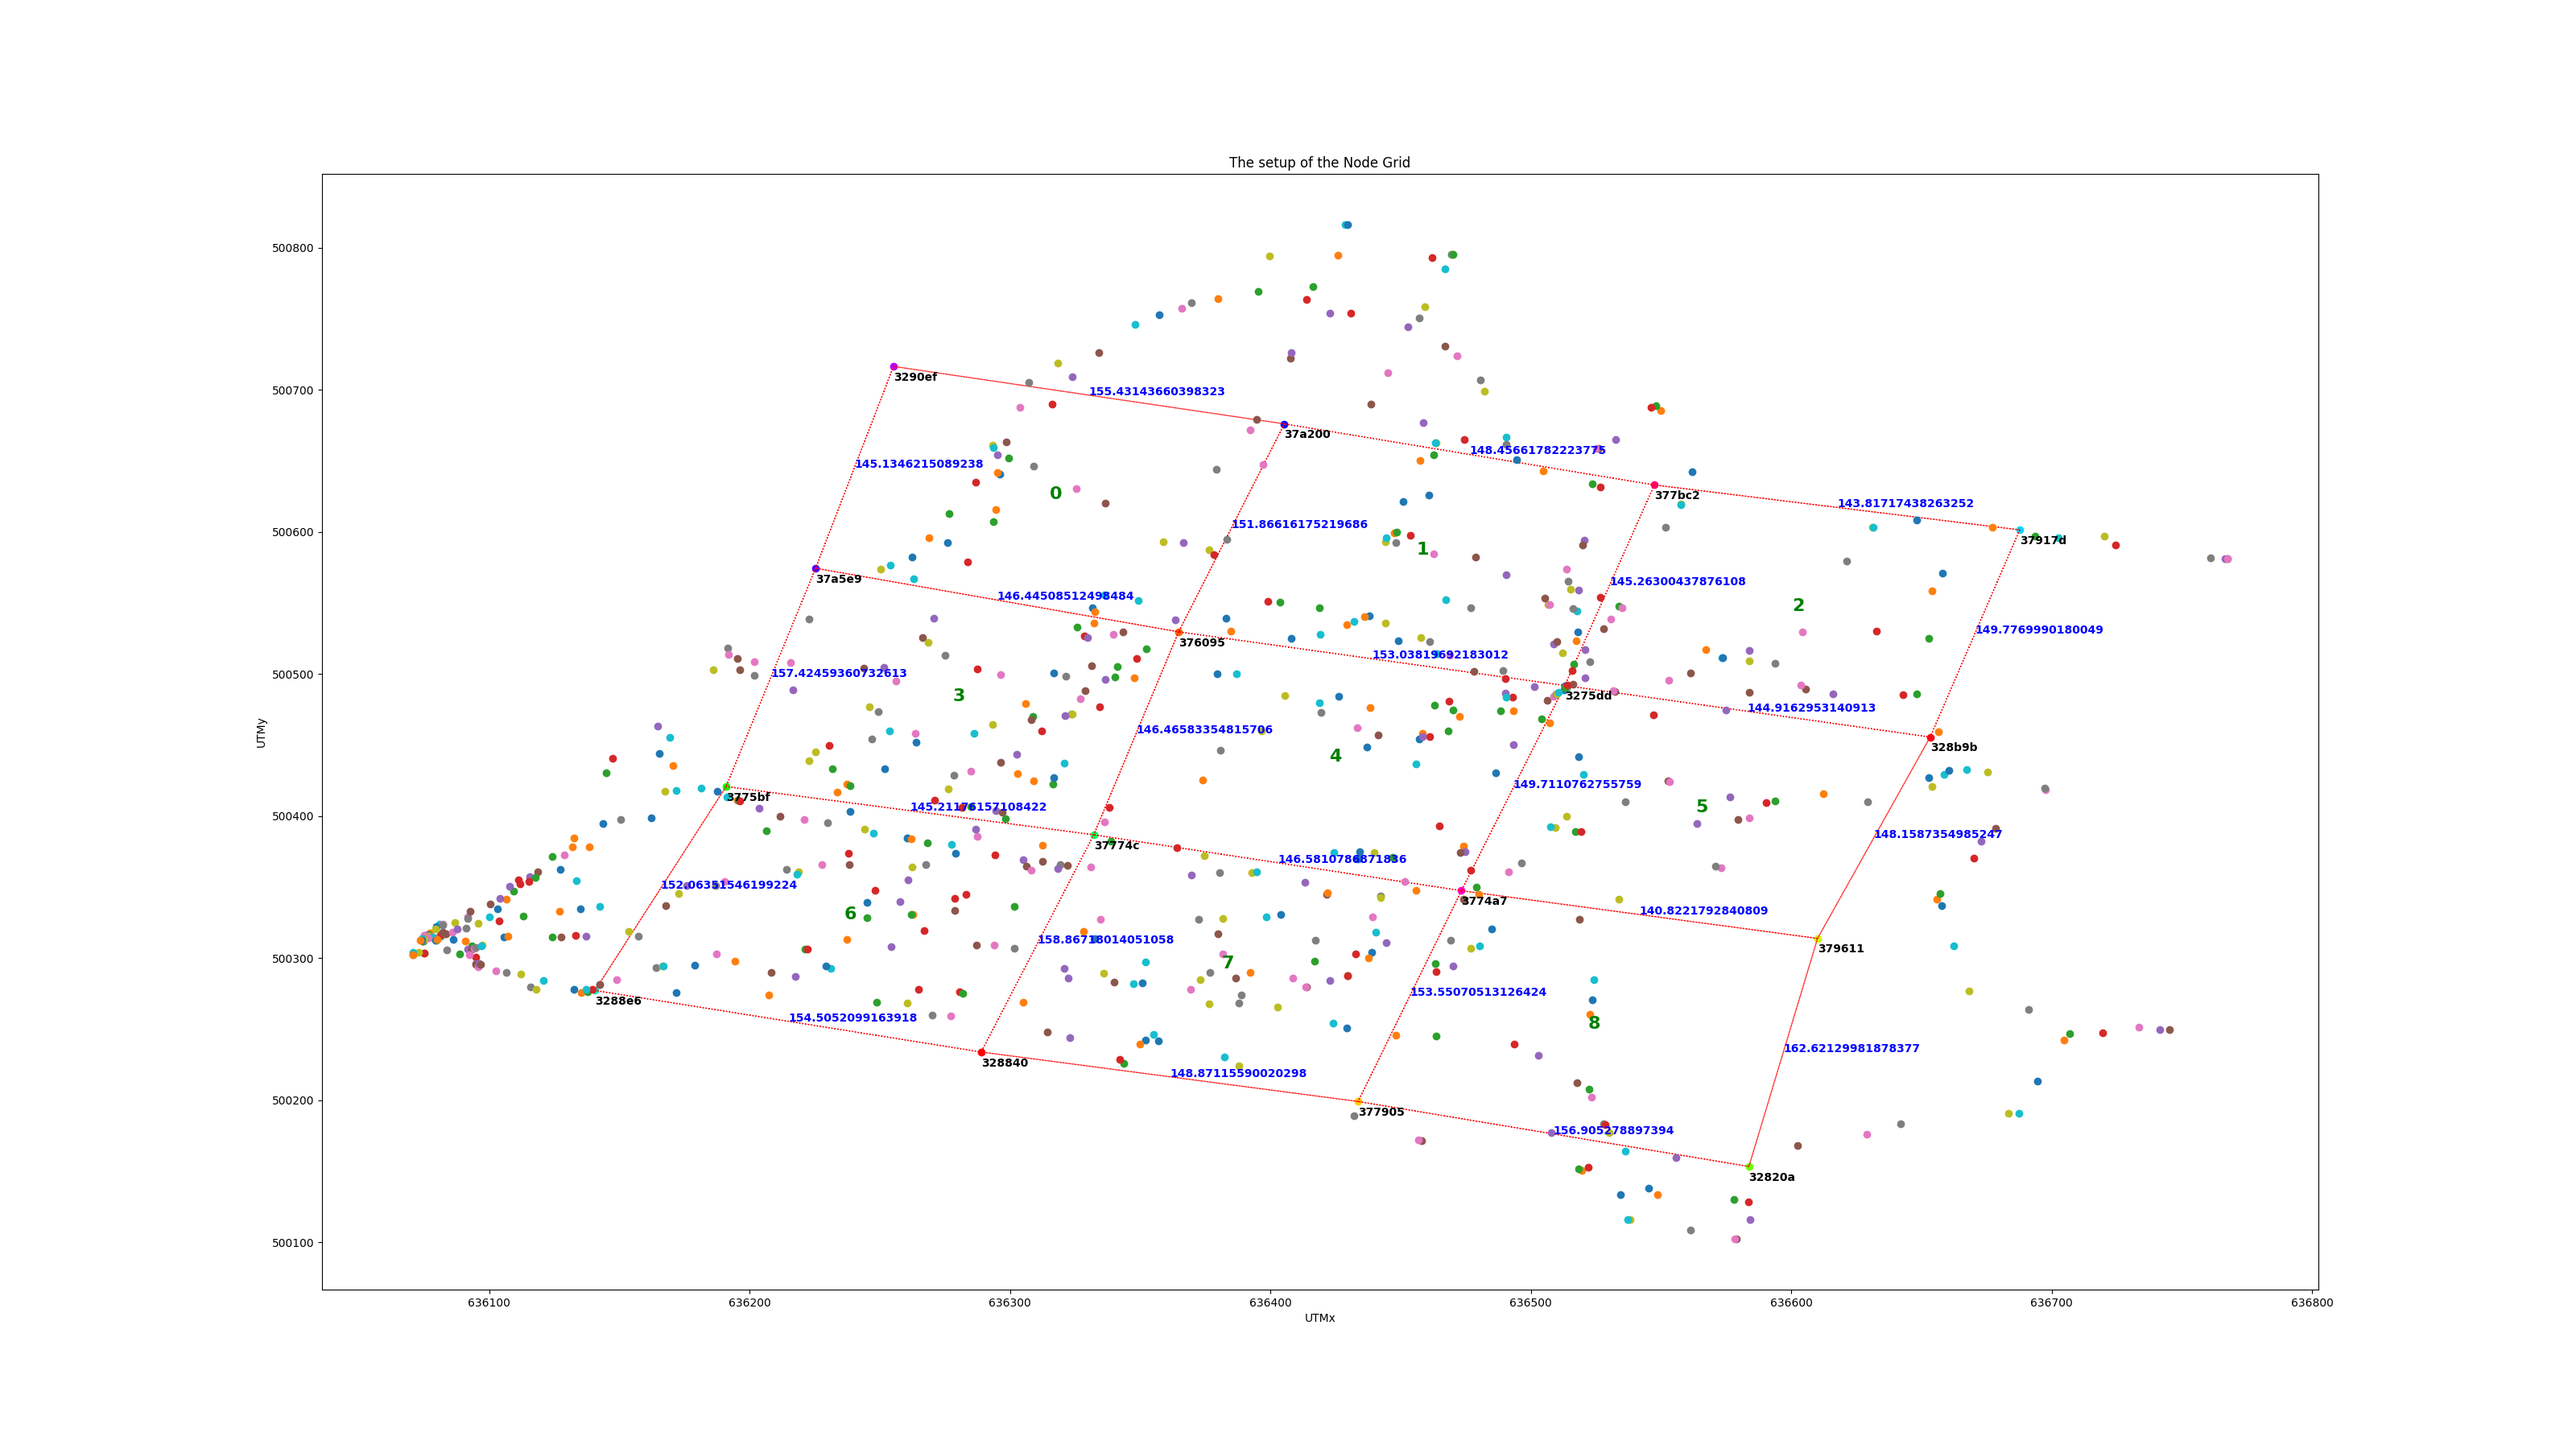
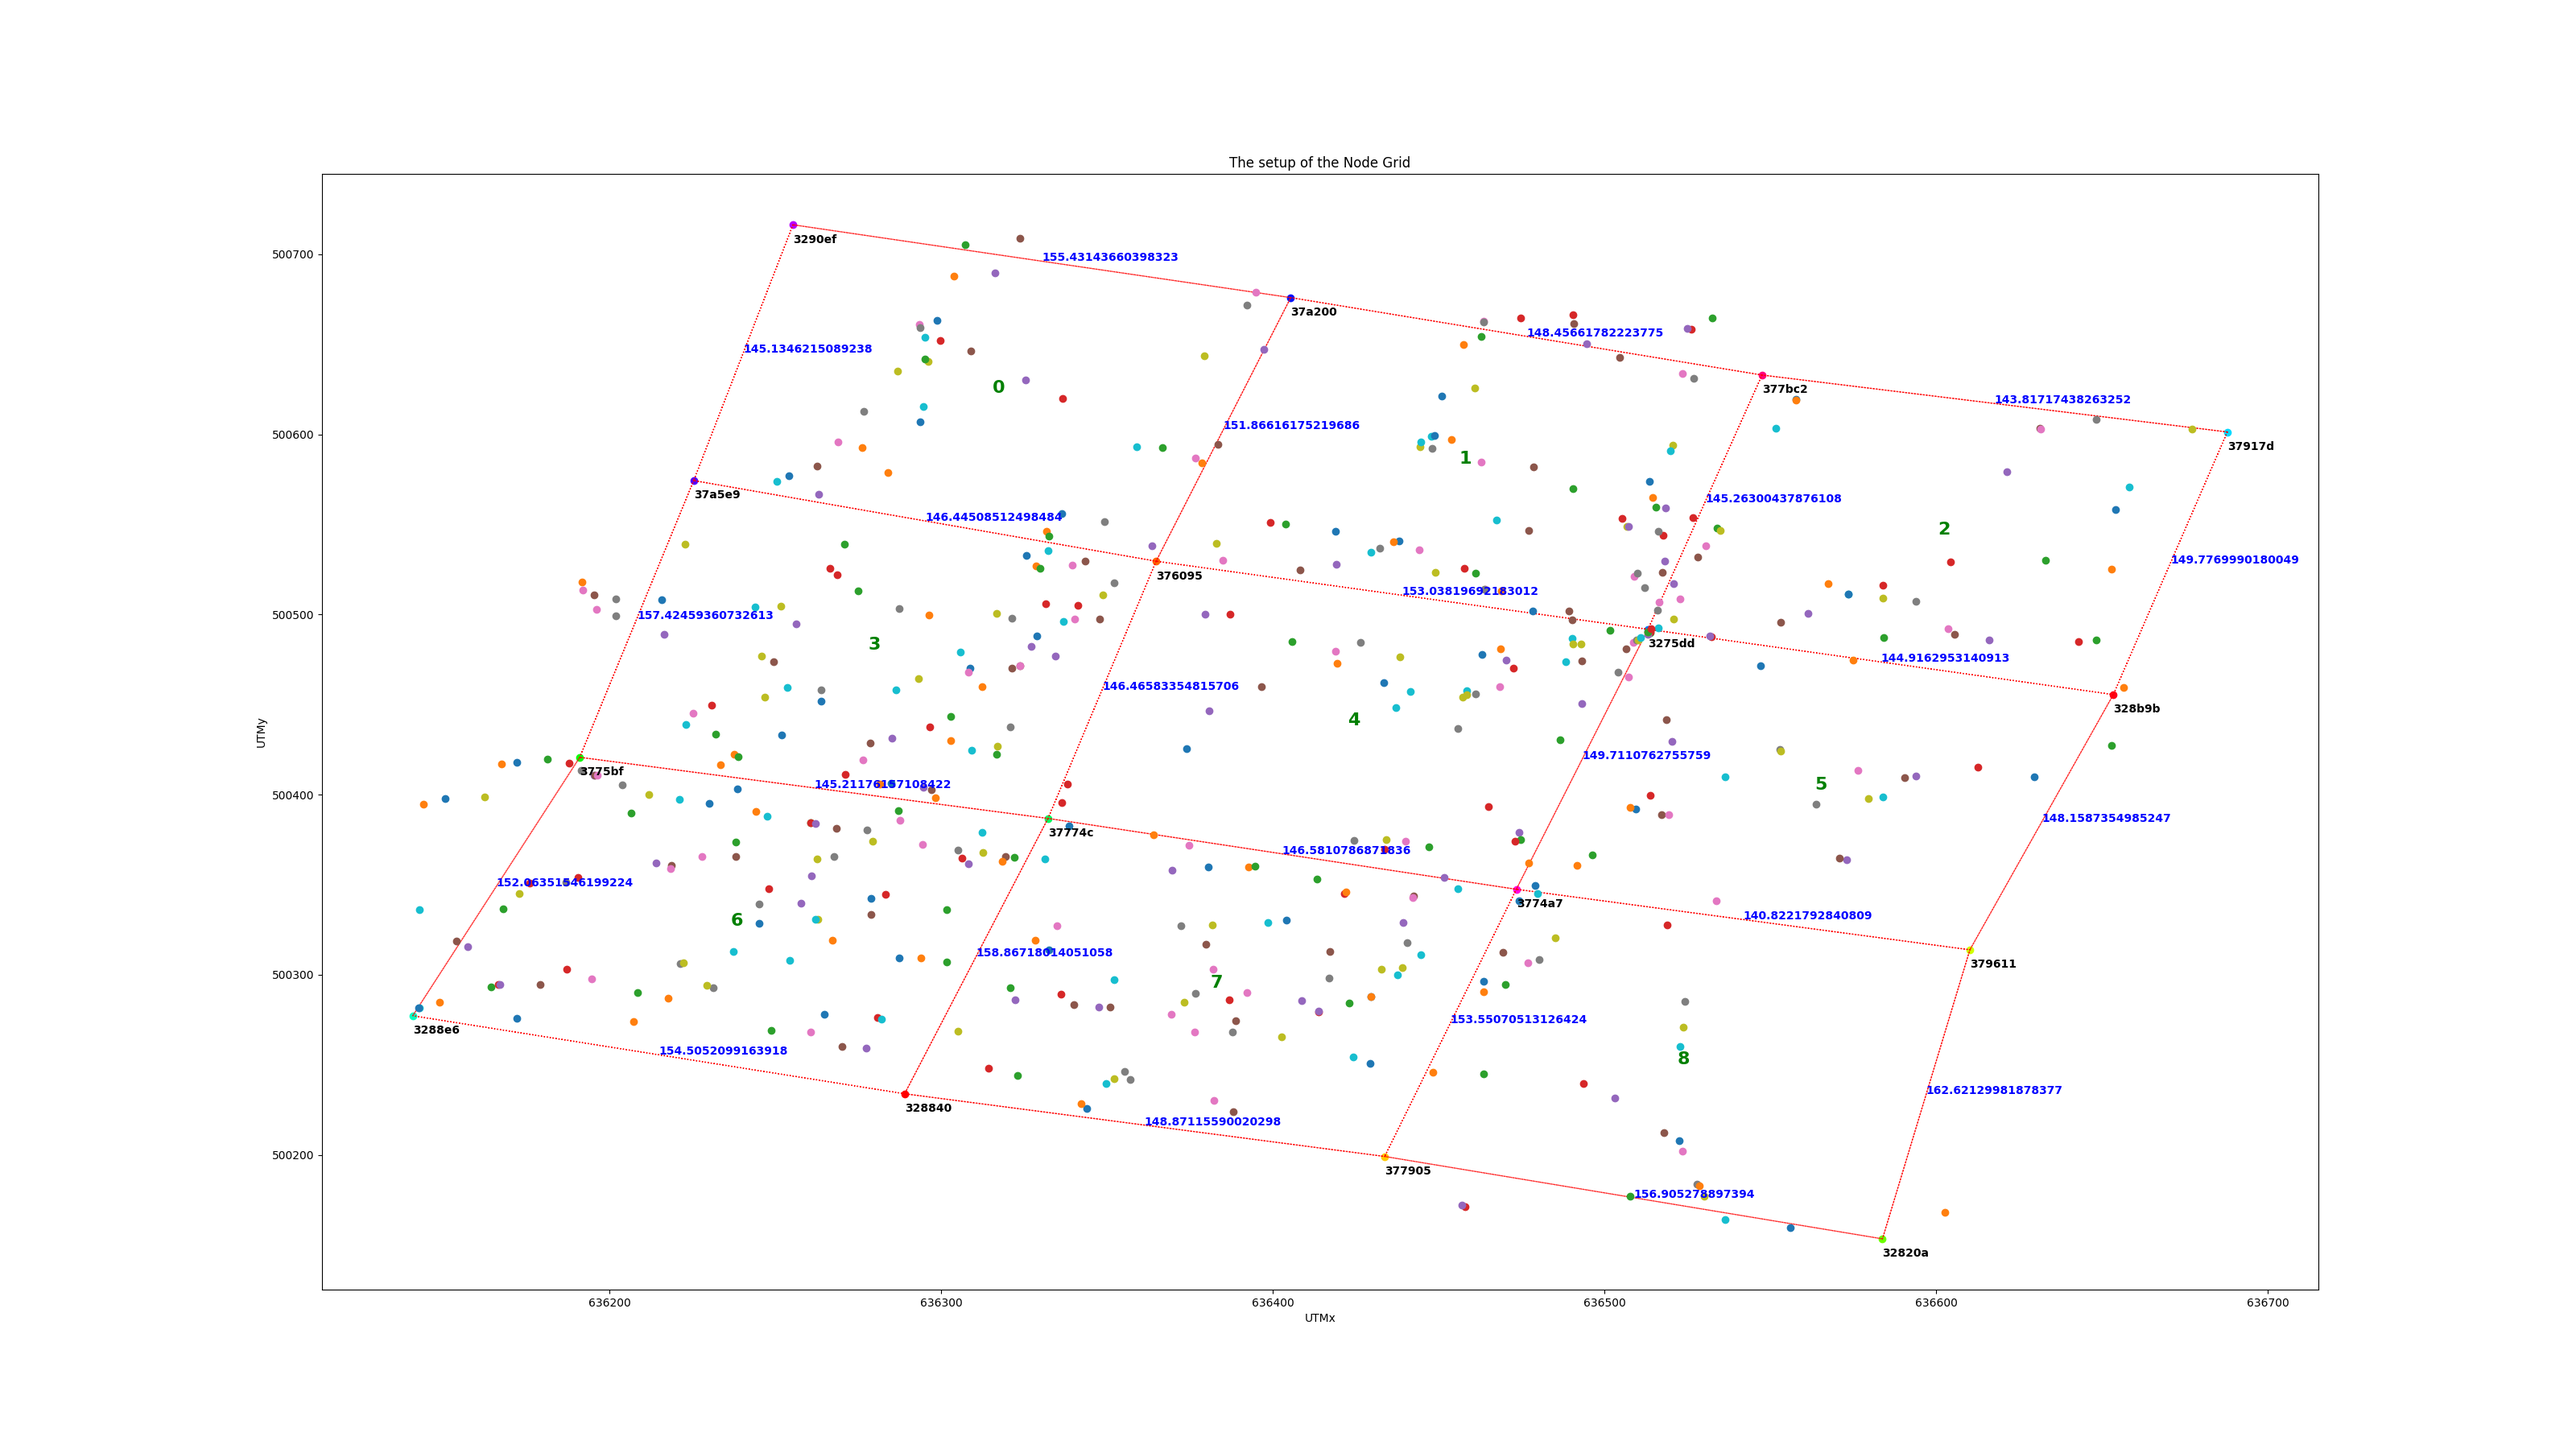
Added minor corrections before PR

diff --git a/Code/plot.py b/Code/plot.py
@@ -2,6 +2,7 @@ from matplotlib import pyplot as plt
 from utils import loadData, loadNodes, loadBoundaries, deriveEquation, loadSections, pointToSection
 from multilat import marchPredictions, junePredictions
 import os, argparse, utm
+import numpy as np 
 
 # from https://stackoverflow.com/questions/14720331/how-to-generate-random-colors-in-matplotlib
 def get_cmap(n, name='hsv'):
@@ -70,7 +71,7 @@ def plotGridWithPoints(data, isSections=True):
     # show the result
     plt.show()
 
-def plotAllData(month="June", isSections=True, combined=False, onlyOutside = True):
+def plotAllData(month="June", isSections=True, combined=False, onlyOutside = False):
     # load in a fig and ax with the node grid already displayed inplace
     fig, ax, sections = plotNodes(True, isSections, True)
     # set the file path based on month and whether we're including sections and whether 
@@ -191,9 +192,10 @@ def main(args=None):
     rssiThreshold=-105.16
     if args.rssi!=None:
         rssiThreshold = args.rssi
-    if args.eq.lower()=='y':
+    
+    if args.eq!=None and args.eq.lower()=='y':
         plotEquation()
-    elif args.allData.lower()=='y':
+    elif args.allData!=None and args.allData.lower()=='y':
         plotAllData()
     elif args.month==None:
         print("Please select a month to visualise with --month month, where you can select 'march' or 'june'")
@@ -206,7 +208,7 @@ def main(args=None):
 if __name__=="__main__":
     parser = argparse.ArgumentParser(description='Plot variables')
     parser.add_argument('--equation', dest='eq', type=str,help="Do you want to plot the equation? y/n")
-    parser.add_argument('--allData', dest='eq', type=str,help="Do you want to plot all the data? y/n")
+    parser.add_argument('--allData', dest='allData', type=str,help="Do you want to plot all the data? y/n")
     parser.add_argument('--month', dest='month', type=str, help='The month of the data you want to visualise')
     parser.add_argument('--rssi', dest='rssi', type=int, help='rssi filter for the data')
 

diff --git a/Code/model.py b/Code/model.py
@@ -14,7 +14,7 @@ import pickle, utm
 from multilat import gps_solve
 from plot import plotGridWithPoints
 
-def rmseModel(useCovariate: bool =False, sectionThreshold: int =50, isErrorData: bool =True, plotError: bool = False):
+def rmseModel(useCovariate: bool =False, sectionThreshold: int =50, isErrorData: bool =True, plotError: bool = True):
     """ Root mean squared error XGBoost trained on the june data 
             useCovariate : bool, refers to whether or not to include the predicted habitat with determining
             the location
